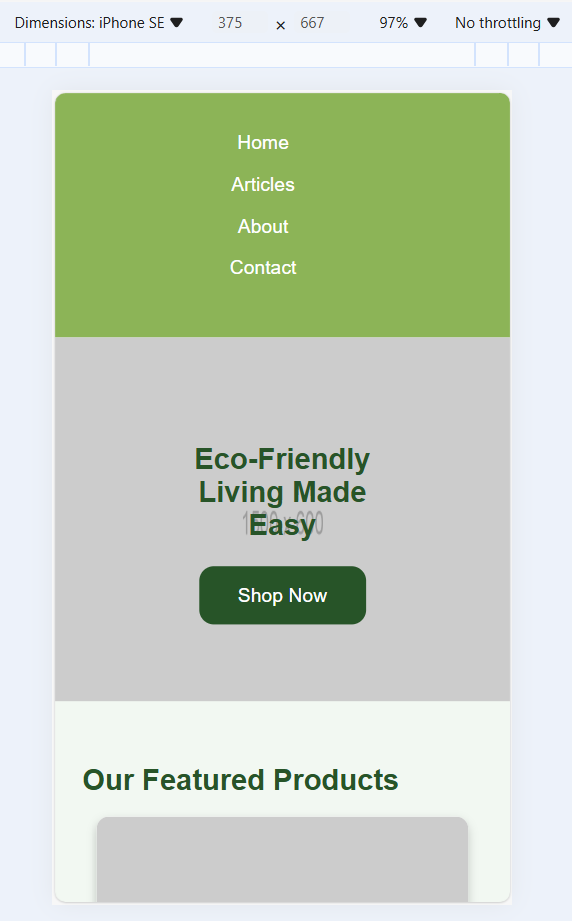
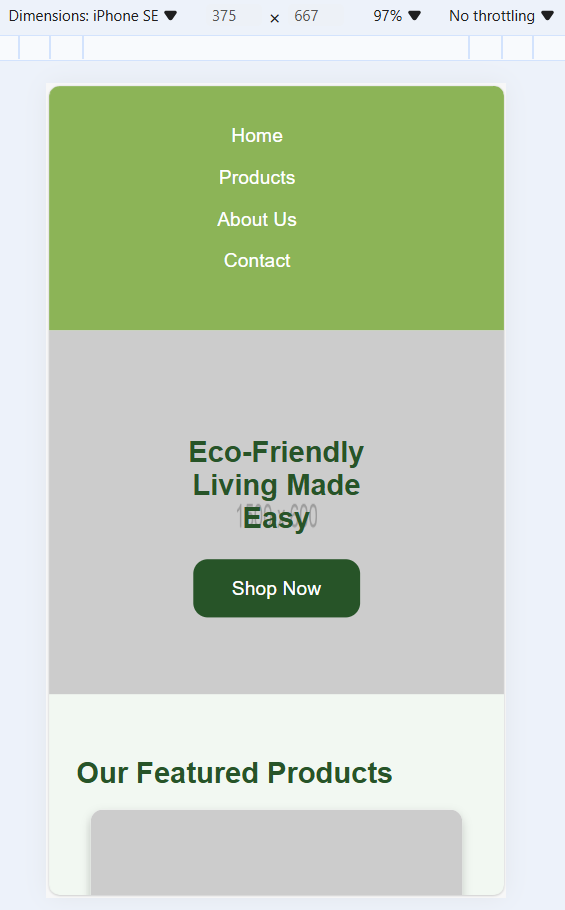
edit outputs image problem2

diff --git a/responsive/eco-friendly-landing-page-complete.html b/responsive/eco-friendly-landing-page-complete.html
@@ -141,8 +141,8 @@
         <nav>
             <ul id="navbar">
                 <li><a href="#home">Home</a></li>
-                <li><a href="#articles">Articles</a></li>
-                <li><a href="#about">About</a></li>
+                <li><a href="#products">Products</a></li>
+                <li><a href="#about">About Us</a></li>
                 <li><a href="#contact">Contact</a></li>
             </ul>
         </nav>
